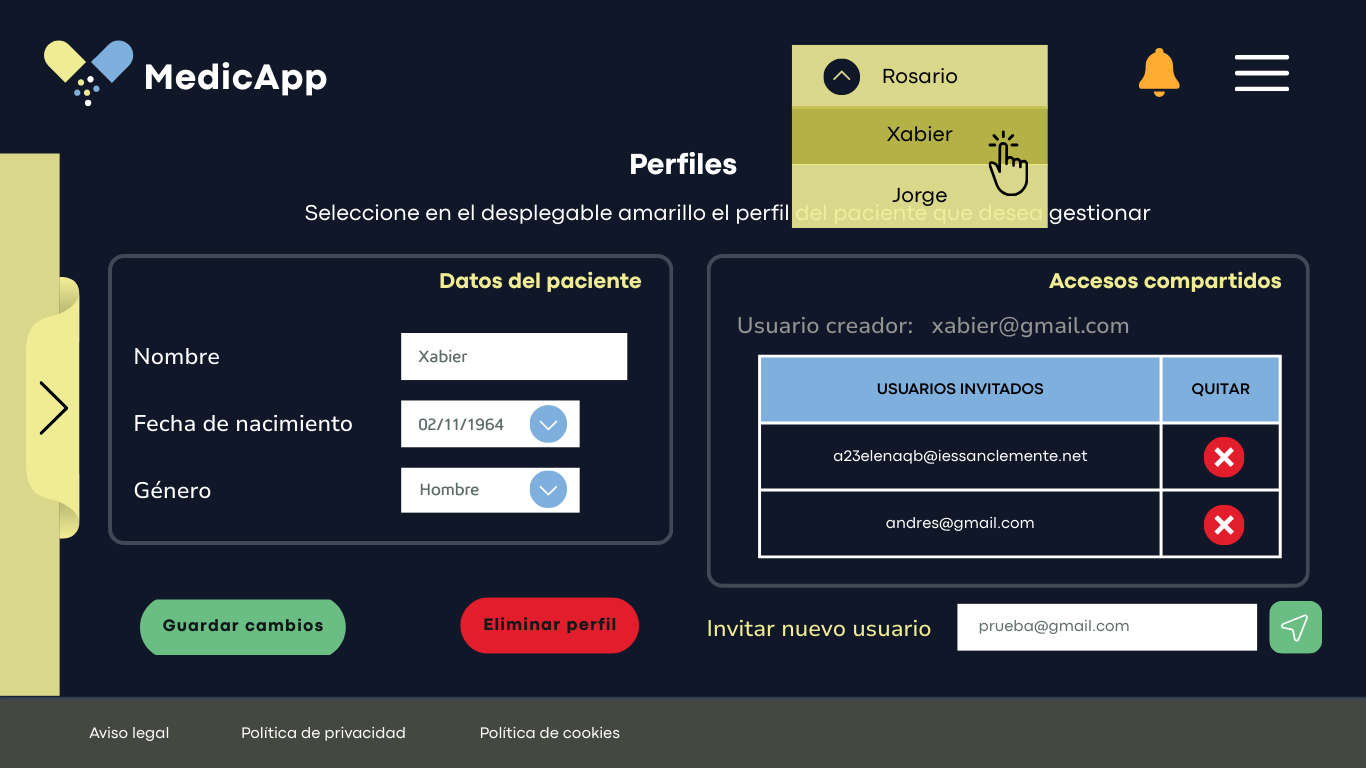
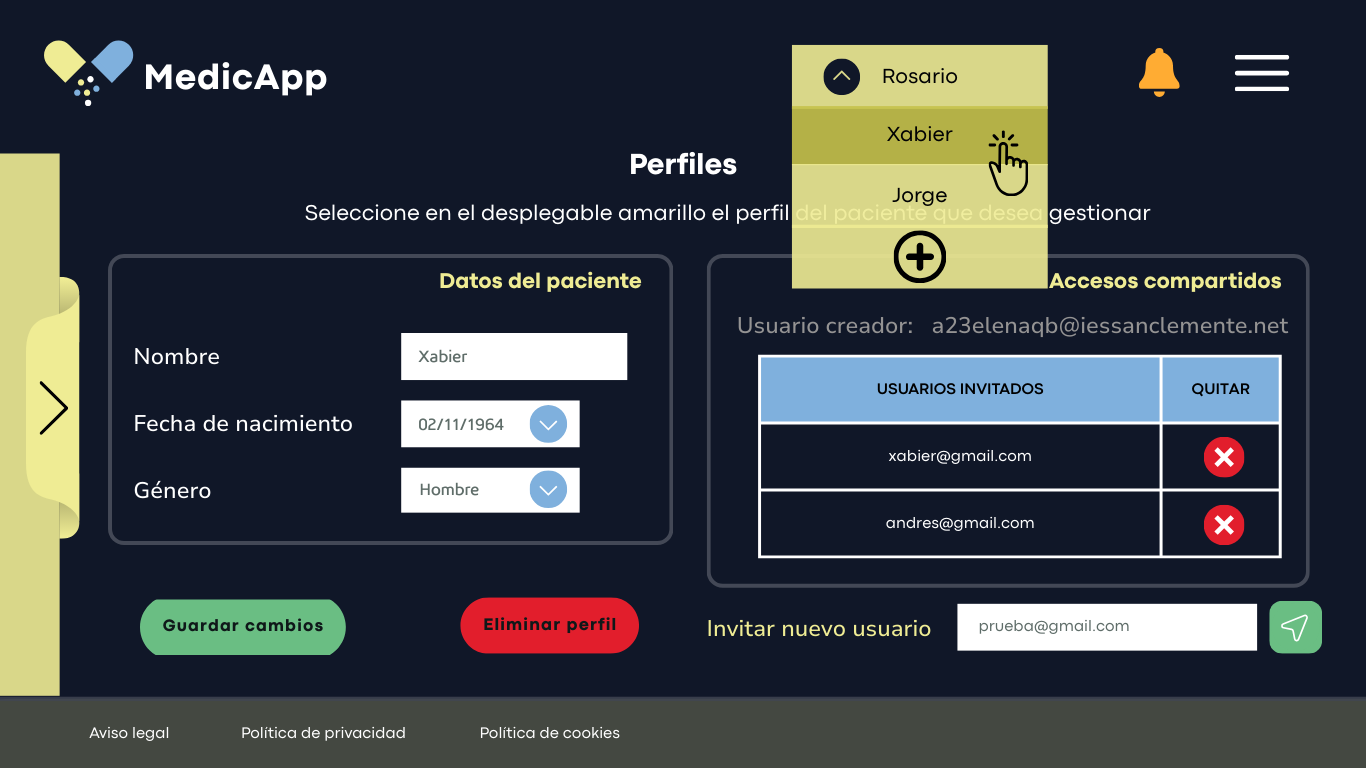
deseño interfaces 3

Changed region(s): [[0.5534, 0.2812, 0.7687, 0.375], [0.6149, 0.5625, 0.7994, 0.625], [0.6764, 0.4062, 0.9531, 0.4375]]

diff --git a/doc/templates/3_deseno.md b/doc/templates/3_deseno.md
@@ -64,11 +64,11 @@ No menú despregable na esquina superior dereita haberá dúas opcións:
 
 (O input para invitacións a outros usuarios estará desactivadada no plan Estándar)
 
-!["Vista axustes usuario"](/doc/img/vistaAjustesUsuario.png)
+!["Vista axustes usuario"](/doc/img/vistaAxustesUsuario.png)
 
 ### Interface de axustes de Usuario Premium
 
-!["Vista axustes usuario"](/doc/img/vistaAjustesUsuarioPremium.png)
+!["Vista axustes usuario"](/doc/img/vistaAxustesUsuarioPremium.png)
 
 
 ### Interface de tratamentos
@@ -98,6 +98,15 @@ Co Usuario Premium poderanse sincronizar as citas médicas con Google Calendar i
 
 !["Vista perfís Usuario Premium desplegable"](/doc/img/vistaXestionPerfilPremium2.png)
 
+
+### Interface de xestión de perfís para Usuario Invitado
+
+!["Vista perfís Usuario invitado desplegable"](/doc/img/vistaXestionPerfilInvitado.png)
+
+
+### Interface de xestión de perfís para Usuario Estándar creador
+
+!["Vista perfís Usuario Estándar creador"](/doc/img/vistaXestionPerfilEstandar.png)
 
 
 
